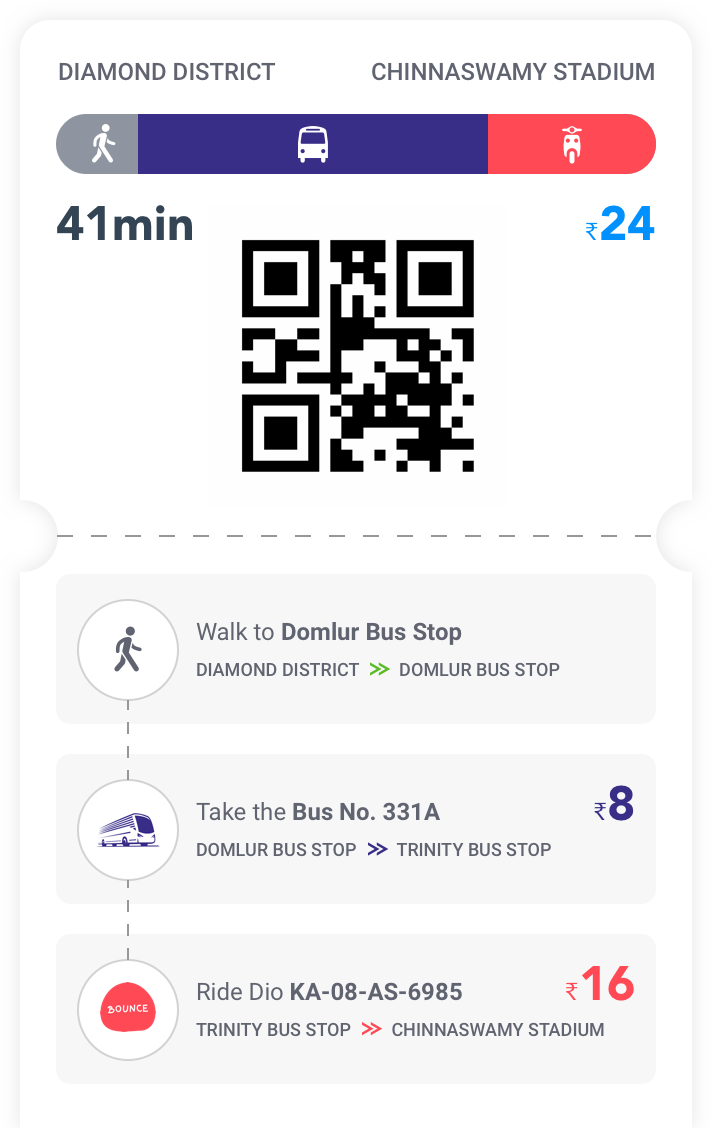
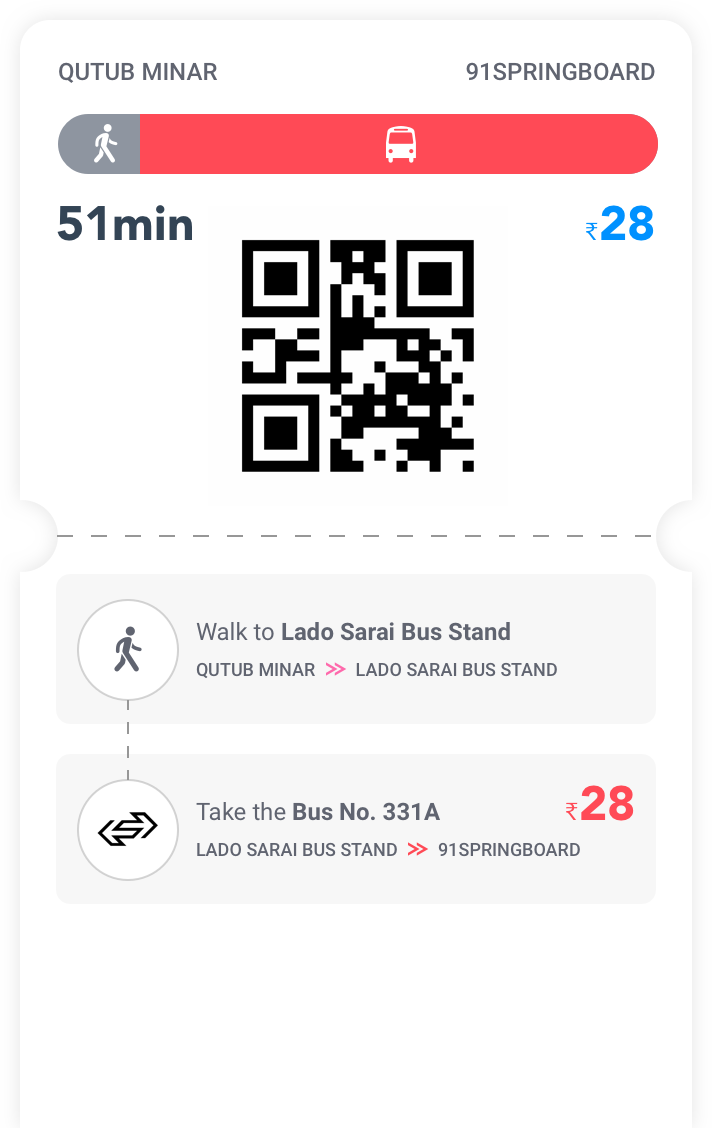
delhi changes  Please enter the commit message for your changes. Lines starting

diff --git a/src/client/routes/routes.js b/src/client/routes/routes.js
@@ -2,17 +2,17 @@ const routes = [
 {
     image: 'tile1',
     label: 'Low Cost',
-    priceTime: "41 min | Rs.24"
+    priceTime: "51 min | Rs.28"
   },
   {
     image: 'tile2',
     label: 'Fastest',
-    priceTime: "21 min | Rs.30"
+    priceTime: "44 min | Rs.54"
   },
   {
     image: 'tile3',
     label: 'Recommended',
-    priceTime: "32 min | Rs.32"
+    priceTime: "49 min | Rs.42"
   }
 ];
 

diff --git a/src/client/routes/StartLocations.js b/src/client/routes/StartLocations.js
@@ -1,6 +1,6 @@
 const startRoutes = [
   {
-    label: "Diamond District",
+    label: "Qutub Minar, Mehrauli, New Delhi",
     value: 1
   }
 ];

diff --git a/src/client/routes/EndLocations.js b/src/client/routes/EndLocations.js
@@ -1,6 +1,6 @@
 const endRoutes = [
   {
-    label: "Chinnaswamy Stadium",
+    label: "91Springboard, NH8-Udyog Vihar",
     value: 1
   }
 ];
